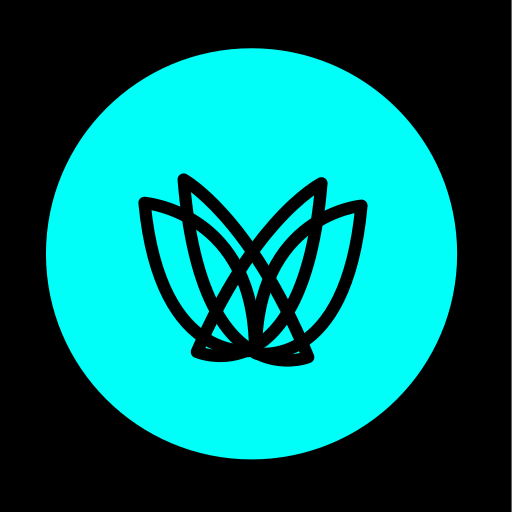
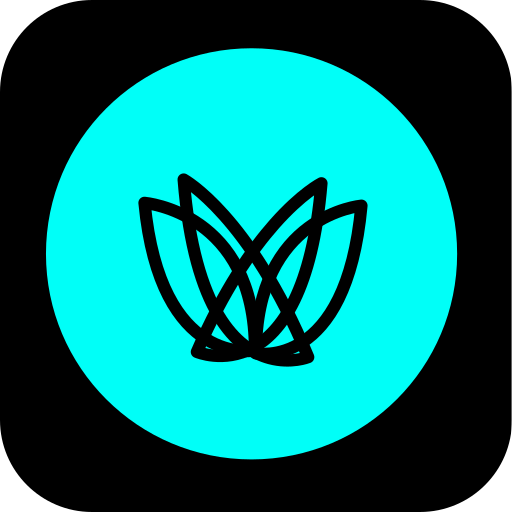
First commit

diff --git a/scripts/prepare-icons.js b/scripts/prepare-icons.js
@@ -10,9 +10,20 @@ const root = path.join(__dirname, '..');
 const svg = path.join(root, 'DesktopAppIcon.svg');
 
 async function run() {
-  // Main app icon (512x512)
-  await sharp(svg).resize(512, 512).png().toFile(path.join(root, 'icon.png'));
-  console.log('icon.png done');
+  // Main app icon (512x512) with macOS/iOS-style rounded corners (~18% radius)
+  const size = 512;
+  const radius = Math.round(size * 0.18); // Soft corners matching OS style
+  const roundedMask = Buffer.from(
+    `<svg xmlns="http://www.w3.org/2000/svg" width="${size}" height="${size}">
+      <rect width="${size}" height="${size}" rx="${radius}" ry="${radius}" fill="white"/>
+    </svg>`
+  );
+  const iconImg = await sharp(svg).resize(size, size).png();
+  await iconImg
+    .composite([{ input: roundedMask, blend: 'dest-in' }])
+    .png()
+    .toFile(path.join(root, 'icon.png'));
+  console.log('icon.png done (rounded corners)');
 
   // Tray icon for dark menu bars / taskbar (32x32)
   await sharp(svg).resize(32, 32).png().toFile(path.join(root, 'trayIcon.png'));
